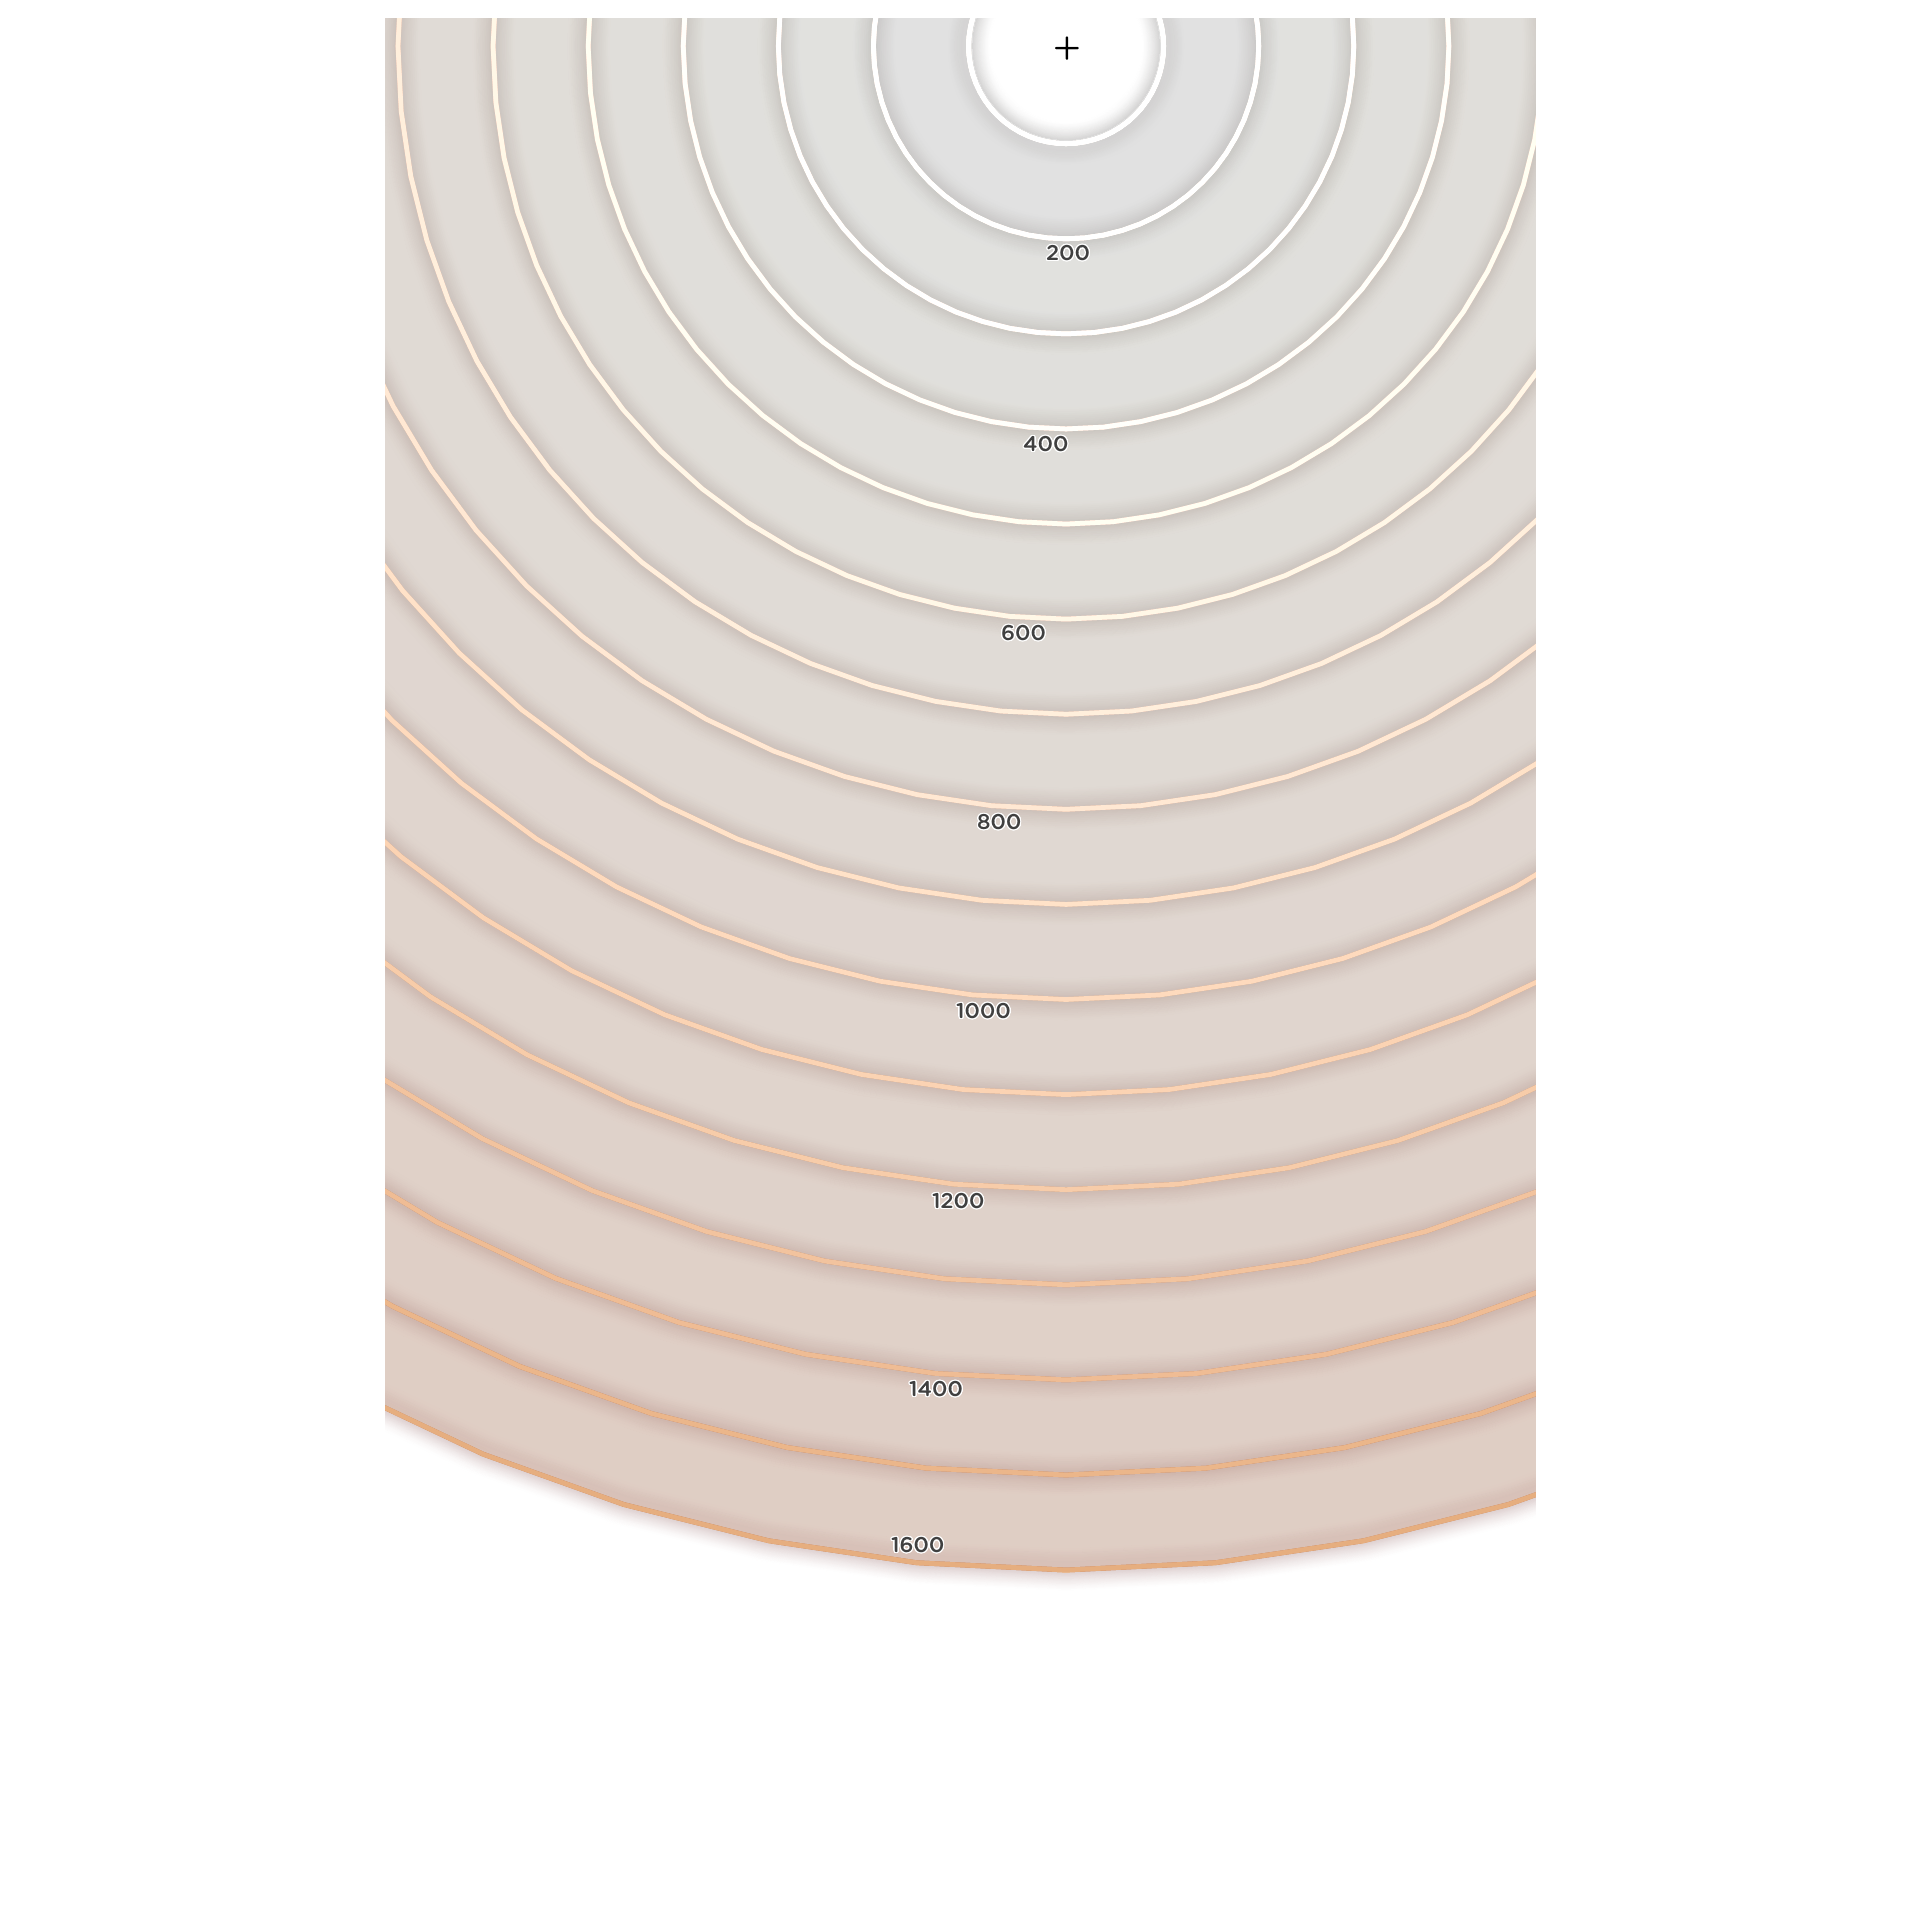
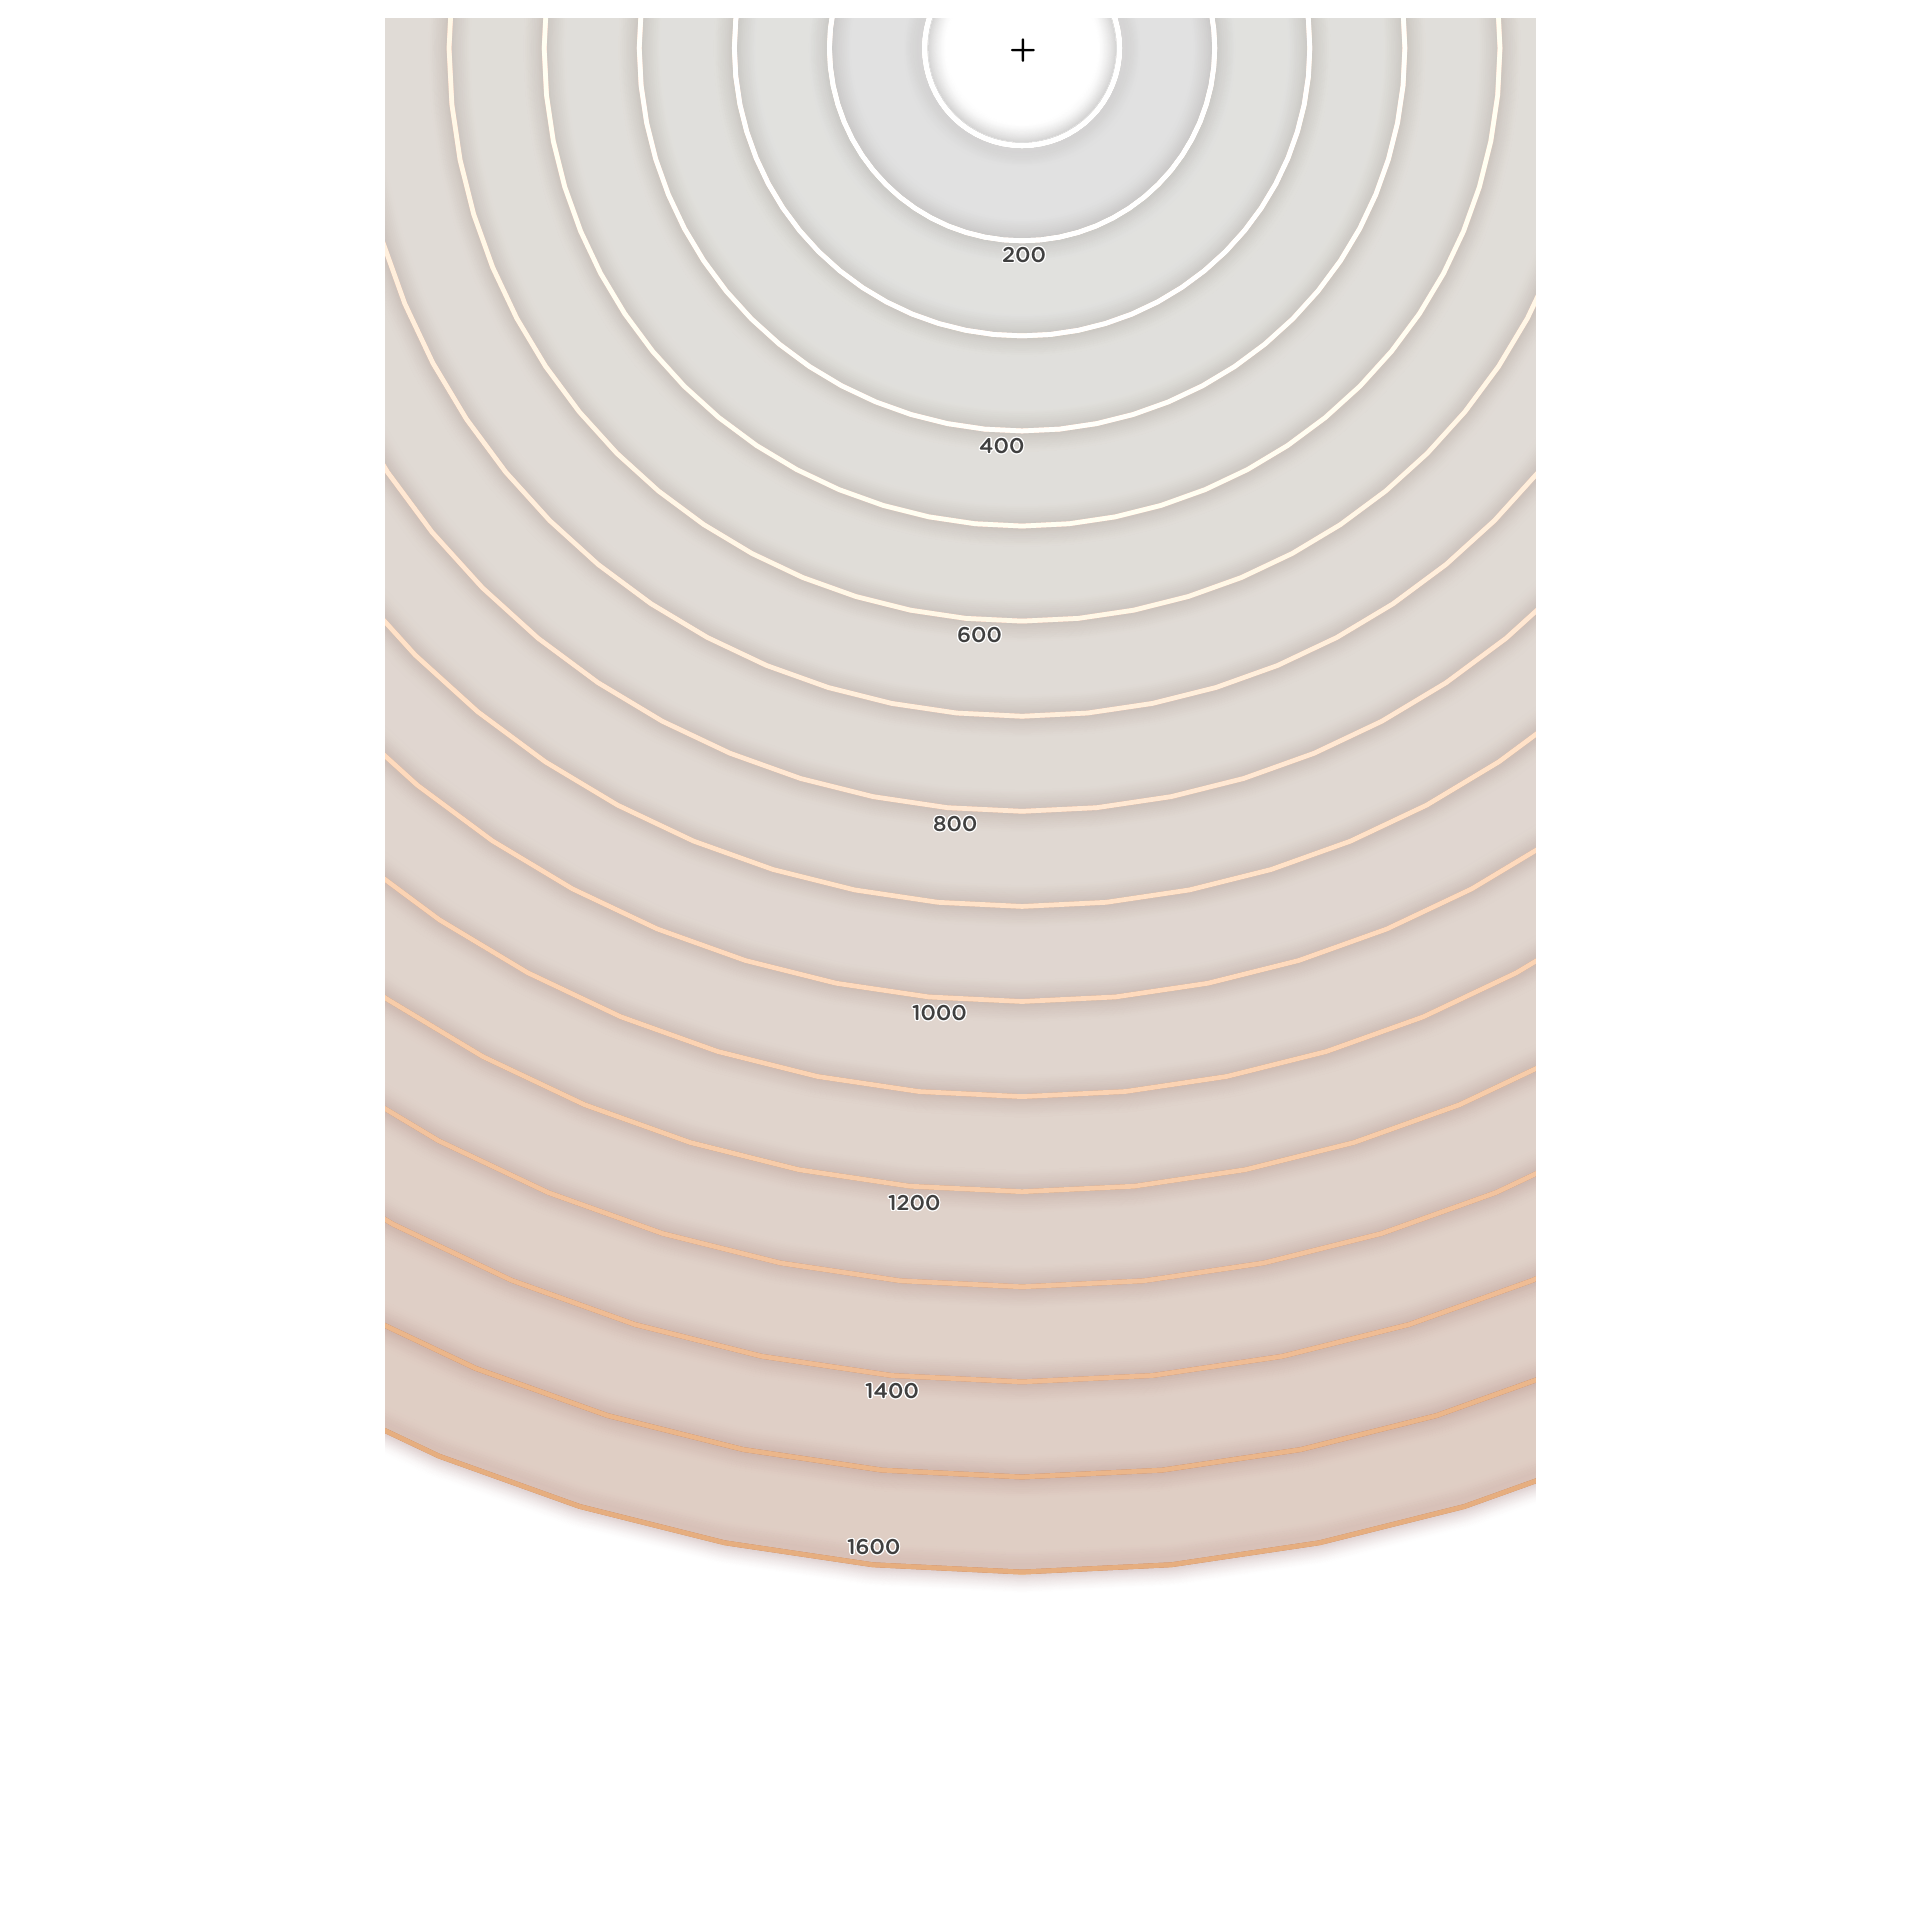
kharkov fix soviet defaults; fix arty ranges for kharkov and kursk

diff --git a/data.js b/data.js
@@ -737,7 +737,7 @@ const DEFAULT_ELEMENTS = {
             ]
         }
     },
-    Kharkov: { // TODO
+    Kharkov: {
         offensive_garrisons: {
             a: [{
                 "left": 603.8622874470572,
@@ -763,19 +763,19 @@ const DEFAULT_ELEMENTS = {
         artillery: {
             a: [
                 {
-                    angle: 90 + 0,
-                    left: 0,
-                    top: 0,
+                    angle: 90 + -163.2453206348014,
+                    "left": 1013.7594569439375,
+                    "top": 43.88471566372019,
                 },
                 {
-                    angle: 90 + 0,
-                    left: 0,
-                    top: 0,
+                    angle: 90 + -179.8673753815414,
+                    "left": 1021.8887205533432,
+                    "top": 49.34466883421656,
                 },
                 {
-                    angle: 90 + 0,
-                    left: 0,
-                    top: 0,
+                    angle: 90 + 179.4201565760737,
+                    "left": 1031.8379685529144,
+                    "top": 52.13531156580359,
                 }
             ],
             b: [
@@ -801,23 +801,23 @@ const DEFAULT_ELEMENTS = {
                 {
                     type: 'tank',
                     modifier: 'light',
-                    "angle": 80.96071499030487,
-                    "left": 586.4687333715613,
-                    "top": 68.2905434579909,
+                    "angle": 30.963756532073432,
+                    "left": 581.4863039652736,
+                    "top": 72.07492940344501,
                 },
                 {
                     type: 'tank',
                     modifier: 'med',
-                    angle: 0,
-                    left: 0,
-                    top: 0,
+                    "angle": -116.40441406836119,
+                    "left": 1050.6393415438383,
+                    "top": 37.35784558974126,
                 },
                 {
                     type: 'tank',
                     modifier: 'recon',
-                    "angle": -36.9097083985824,
-                    "left": 1373.2078669767213,
-                    "top": 86.94429380337465,
+                    "angle": -173.7686261664744,
+                    "left": 1348.816732157774,
+                    "top": 53.60409738553429,
                 }
             ],
             b: [
